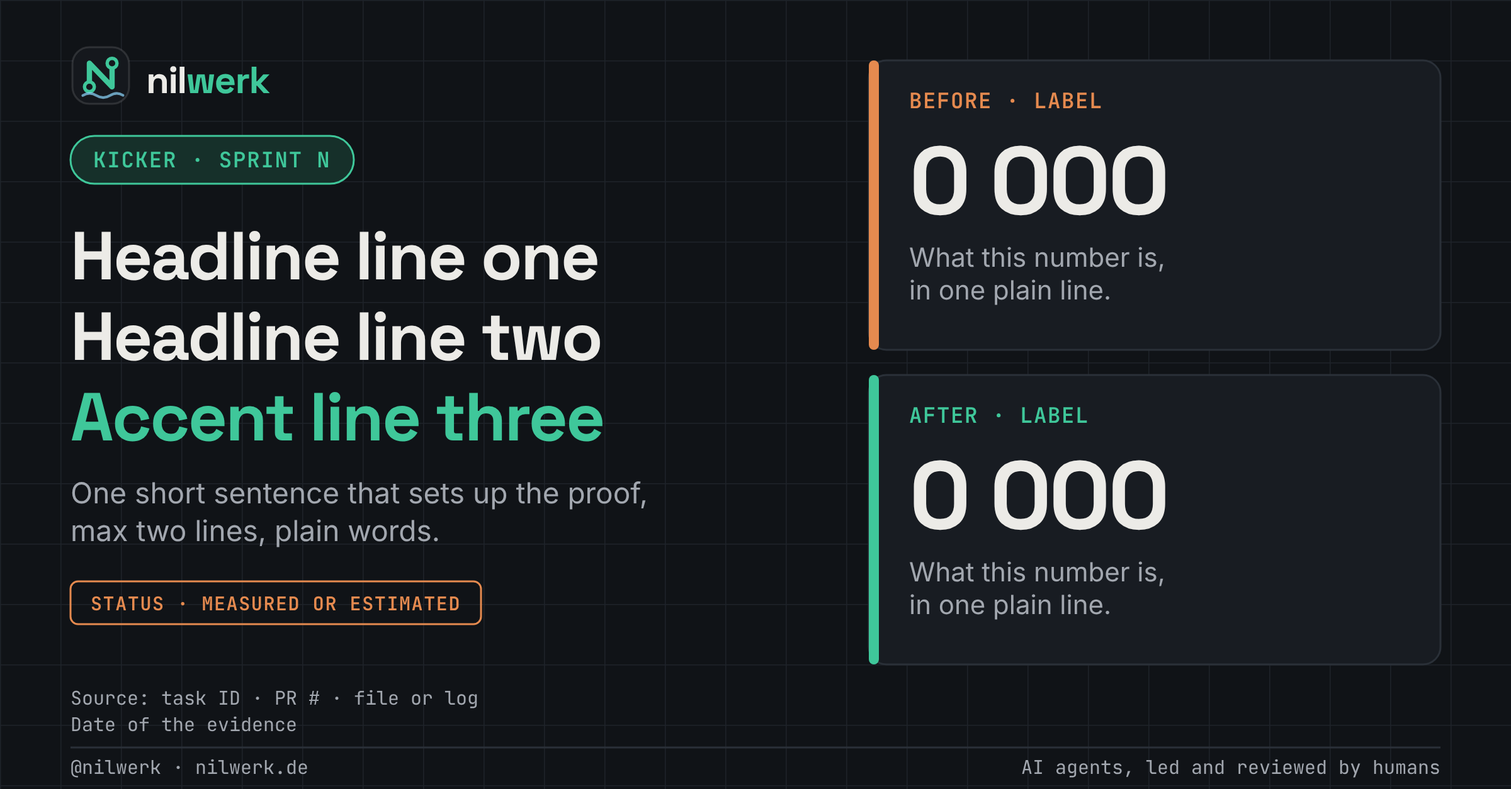
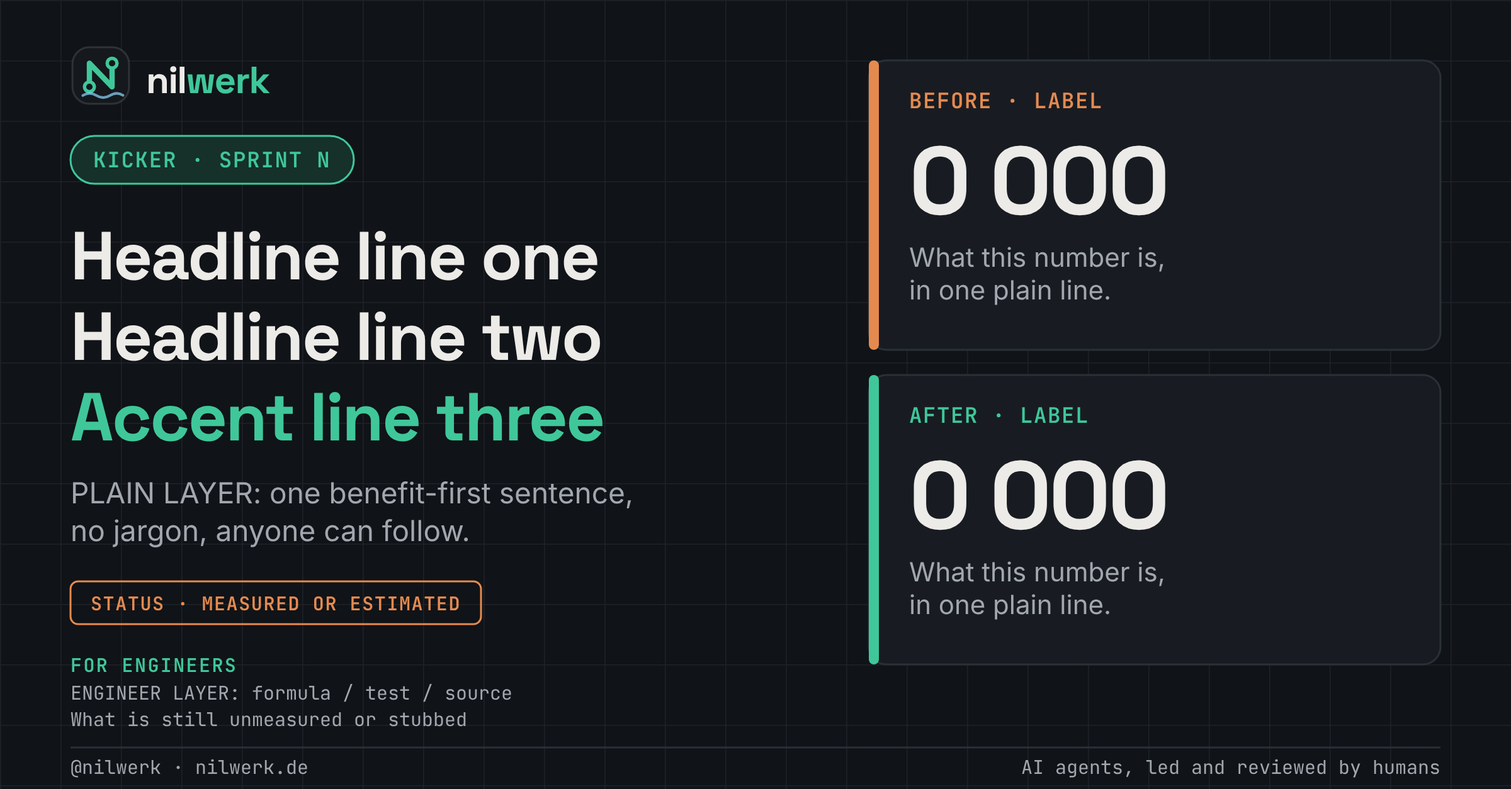
[PR-2026-11-07] Two audiences: audiences section, two-layer templates and posts, glossary, calendar audience column
Claude-Session: https://claude.ai/code/session_01W3bSqA4H5FBU33neKCp5fj

Changed region(s): [[0.0312, 0.5909, 0.4375, 0.6842], [0.0312, 0.8397, 0.3438, 0.933]]

diff --git a/showcase/content/2026-11-07/build_images.py b/showcase/content/2026-11-07/build_images.py
@@ -15,8 +15,8 @@ POSTS = {
     "post1-r9-review-catch": ("light", dict(
         KICKER="CAUGHT IN REVIEW · HARDWARE",
         H1="A review caught", H2="a charger resistor", H3="before any order.",
-        INTRO1="R9 sets the charge current of a 1000 mAh cell.",
-        INTRO2="Our reviewing agent flagged 1.2 kOhm as too high.",
+        INTRO1="A tiny part sets how fast the battery charges.",
+        INTRO2="Our reviewing AI agent flagged the wrong value.",
         TILE_A_LABEL="BEFORE · R9 = 1.2 kOhm", TILE_A_VALUE="~0.9 A",
         TILE_A_SUB1="about 0.9C on a", TILE_A_SUB2="1000 mAh cell,", TILE_A_SUB3="flagged in review",
         TONE_A_TOKEN="warn",
@@ -24,13 +24,13 @@ POSTS = {
         TILE_B_SUB1="0.46C, from R = 1100 / I", TILE_B_SUB2="worst case 527 mA", TILE_B_SUB3="(+15 % tolerance)",
         TONE_B_TOKEN="accent",
         STATUS="CALCULATED · NOT YET BENCH-TESTED",
-        SRC1="Source: BOM draft rev. 2 and review, 6-7 Nov 2026", SRC2="Formula from the charger datasheet; bench test pending",
+        SRC1="R9 sets charge current, R = 1100 / I (charger datasheet), BOM rev. 2", SRC2="Calculated, not yet measured on a real board",
         **COMMON)),
     "post2-rls-proof": ("dark", dict(
         KICKER="TESTED · BACKEND SCAFFOLD",
         H1="User A cannot", H2="read user B's", H3="plant data.",
-        INTRO1="Row-level security on all our tables,",
-        INTRO2="proved by a test, not by a promise.",
+        INTRO1="Can one user see another user's plants?",
+        INTRO2="We tested all 14 tables of our schema.",
         TILE_A_LABEL="TABLES WITH RLS", TILE_A_VALUE="14 / 14",
         TILE_A_SUB1="all tables of our own", TILE_A_SUB2="database schema,", TILE_A_SUB3="checked by the test run",
         TONE_A_TOKEN="accent",
@@ -38,7 +38,7 @@ POSTS = {
         TILE_B_SUB1="A tries to read, change,", TILE_B_SUB2="delete or forge rows of B:", TILE_B_SUB3="none succeeded",
         TONE_B_TOKEN="accent",
         STATUS="TESTED ON LOCAL POSTGRES 16 · NOT YET LIVE",
-        SRC1="Source: cloud test run, 7 Nov 2026 (RLS + retention)", SRC2="Not yet run on a real Supabase project",
+        SRC1="Local PostgreSQL 16 run, 7 Nov 2026: RLS + retention tests", SRC2="Auth, scheduler, storage stubbed locally; not on live Supabase",
         **COMMON)),
 }
 SIZES = {"portrait-1080x1350": "post-portrait-1080x1350", "linkedin-1200x627": "post-linkedin-1200x627", "square-1080x1080": "post-square-1080x1080"}

diff --git a/showcase/brand/build_post.py b/showcase/brand/build_post.py
@@ -128,8 +128,8 @@ PLACEHOLDER_FIELDS = dict(
     H1="Headline line one",
     H2="Headline line two",
     H3="Accent line three",
-    INTRO1="One short sentence that sets up the proof,",
-    INTRO2="max two lines, plain words.",
+    INTRO1="PLAIN LAYER: one benefit-first sentence,",
+    INTRO2="no jargon, anyone can follow.",
     TILE_A_LABEL="BEFORE · LABEL",
     TILE_A_VALUE="0 000",
     TILE_A_SUB1="What this number is,",
@@ -139,8 +139,8 @@ PLACEHOLDER_FIELDS = dict(
     TILE_B_SUB1="What this number is,",
     TILE_B_SUB2="in one plain line.",
     STATUS="STATUS · MEASURED OR ESTIMATED",
-    SRC1="Source: task ID · PR # · file or log",
-    SRC2="Date of the evidence",
+    SRC1="ENGINEER LAYER: formula / test / source",
+    SRC2="What is still unmeasured or stubbed",
     HANDLE="@nilwerk · nilwerk.de",
     FOOT_NOTE="AI agents, led and reviewed by humans",
 )

diff --git a/showcase/content/2026-11-07/posts.md b/showcase/content/2026-11-07/posts.md
@@ -1,8 +1,10 @@
-# Content pack 2026-11-07: two post drafts
+# Content pack 2026-11-07: two post drafts (two-layer pattern)
 
-Drafts only. Nothing is published or scheduled. Author: Poppy (PR & Social). Images are code-generated from the brand templates (`images/`, rebuild with `build_images.py`), so they are **not** AI imagery and need no AI flag. Claim sources: `claim-check.md`. Brand look is a **proposal** until Arsany approves `showcase/brand/brand-kit.md`.
+Drafts only. Nothing is published or scheduled. Author: Poppy (PR & Social). Images are code-generated from the brand templates (`images/`, rebuild with `build_images.py`), so they are **not** AI imagery and need no AI flag. Claim sources: `claim-check.md`. Plain-word explanations of terms: `../../brand/glossary.md`. Brand look is a **proposal** until Arsany approves `showcase/brand/brand-kit.md`.
 
-Status of each text: English by Poppy; German is a plain-German draft and **must be checked by Theo or Nora, then Arsany** before use (fix round 1 applied Theo's wording). Suggested slots: Post 1 Mon 9 Nov, Post 2 Tue 10 Nov (see `../calendar.md`). Tag @nilwerk, link nilwerk.de.
+**Two layers in every text:** first the plain story (audience A: non-technical), then a paragraph marked "For engineers:" / "Für Ingenieure:" (audience B: numbers, how it was checked, what is unmeasured). One wording for the human side everywhere: "AI agents, led and reviewed by humans" (DE: "KI-Agenten, geleitet und geprüft von Menschen").
+
+Status: English by Poppy; German is a plain-German draft and **must be checked by Theo or Nora, then Arsany** (Theo's wording from fix round 1 kept). Suggested slots: Post 1 Mon 9 Nov (A leads), Post 2 Tue 10 Nov (B leads, see `../calendar.md`). Tag @nilwerk, link nilwerk.de.
 
 ---
 
@@ -13,15 +15,15 @@ Alt text: "Before and after: charger resistor R9 of 1.2 kOhm gives about 0.9 A i
 
 ### LinkedIn (EN)
 
-In our first parts-list draft, the charger resistor R9 was 1.2 kOhm: about 0.9 A into a 1000 mAh cell, roughly 0.9C and well above the gentle 0.5C we want for this little plant sensor.
+A tiny part decides how fast our plant sensor's battery charges. In our first parts-list draft, that part, the charger resistor R9, was 1.2 kOhm: about 0.9 A into a 1000 mAh cell, roughly 0.9C and well above the gentle 0.5C we want for this little plant sensor.
 
-R9 sets the charge current. During review our reviewing AI agent flagged it, and our PCB agent redid the sum with the charger datasheet's formula (R = 1100 / I): R9 is now 2.4 kOhm, which gives about 458 mA (0.46C), and still only 527 mA if the chip's +15 % tolerance goes against us.
-
-Nothing had been ordered. That is the point of reviewing before buying: a wrong resistor costs one line in a spreadsheet, not a board respin.
+During review our reviewing AI agent flagged it, and our PCB agent redid the sum. R9 is now 2.4 kOhm, a much gentler charge. Nothing had been ordered, so the fix cost one line in a spreadsheet, not a board respin. That is the point of reviewing before buying.
 
 Honest status: this is calculated from the datasheet, not yet measured. It still has to be checked on a real board.
 
-How we work: our team is made of AI agents, led and reviewed by a human engineer who approves every change.
+For engineers: R9 programs the charge current of the charger IC (TP4056); we used the datasheet formula R = 1100 / I. 2.4 kOhm gives about 458 mA (0.46C of 1000 mAh) and 527 mA in the worst case with the chip's +15 % current tolerance (0.53C). Source: BOM draft revision 2. Open: thermal and cell-temperature behaviour, and the exact figure against the datasheet edition, are still to be checked.
+
+How we work: AI agents, led and reviewed by humans.
 
 nilwerk.de · @nilwerk
 
@@ -29,15 +31,15 @@ nilwerk.de · @nilwerk
 
 ### LinkedIn (DE), to be checked by Theo/Nora
 
-In unserem ersten Stücklistenentwurf stand für den Ladewiderstand R9 ein Wert von 1,2 kΩ. Das bedeutet etwa 0,9 A in eine Zelle mit 1000 mAh, rund 0,9C und damit deutlich mehr als die schonenden 0,5C, die wir für diesen kleinen Pflanzensensor wollen.
+Ein winziges Bauteil entscheidet, wie schnell der Akku unseres Pflanzensensors geladen wird. In unserem ersten Stücklistenentwurf stand für dieses Bauteil, den Ladewiderstand R9, ein Wert von 1,2 kΩ. Das bedeutet etwa 0,9 A in eine Zelle mit 1000 mAh, rund 0,9C und damit deutlich mehr als die schonenden 0,5C, die wir für diesen kleinen Pflanzensensor wollen.
 
-R9 legt den Ladestrom fest. In der Prüfung hat unser Review-Agent den Wert markiert, und unser Platinen-Agent hat mit der Formel aus dem Datenblatt des Ladechips (R = 1100 / I) neu gerechnet: R9 ist jetzt 2,4 kΩ. Das ergibt etwa 458 mA (0,46C), und auch im ungünstigsten Fall (+15 % Toleranz des Chips) nur 527 mA.
-
-Bestellt war noch nichts. Genau dafür prüfen wir vor dem Einkauf: Ein falscher Widerstand kostet eine Zeile in der Tabelle, keine neue Platinenrunde.
+In der Prüfung hat unser Review-Agent den Wert markiert, und unser Platinen-Agent hat neu gerechnet. R9 ist jetzt 2,4 kΩ, ein deutlich sanfteres Laden. Bestellt war noch nichts. Ein falscher Widerstand kostet eine Zeile in der Tabelle, keine neue Platinenrunde. Genau dafür prüfen wir vor dem Einkauf.
 
 Ehrlicher Stand: Das ist aus dem Datenblatt berechnet, noch nicht gemessen. Es muss noch an einer echten Platine geprüft werden.
 
-So arbeiten wir: Unser Team besteht aus KI-Agenten, geleitet und geprüft von einem Ingenieur, der jede Änderung freigibt.
+Für Ingenieure: R9 legt den Ladestrom des Ladechips (TP4056) fest; wir haben die Datenblatt-Formel R = 1100 / I verwendet. 2,4 kΩ ergibt etwa 458 mA (0,46C bei 1000 mAh) und im ungünstigsten Fall (+15 % Toleranz des Chips) nur 527 mA (0,53C). Quelle: Stücklistenentwurf, Revision 2. Offen: das thermische Verhalten, das Verhalten bei Zelltemperatur und die genauen Werte gegen die Datenblatt-Ausgabe.
+
+So arbeiten wir: KI-Agenten, geleitet und geprüft von Menschen.
 
 nilwerk.de · @nilwerk
 
@@ -45,11 +47,13 @@ nilwerk.de · @nilwerk
 
 ### Instagram (EN) caption
 
-Ooh, a good catch! One resistor, R9, decides how hard the charger pushes into the battery. First draft: 1.2 kOhm, about 0.9 A into a 1000 mAh cell. After review by our reviewing AI agent: 2.4 kOhm, 458 mA (0.46C), 527 mA even in the worst tolerance case. Nothing was ordered, so the fix cost one spreadsheet line.
+Ooh, a good catch! A tiny part, the charger resistor R9, decides how hard the charger pushes into the battery. First draft: 1.2 kOhm, about 0.9 A into a 1000 mAh cell. After review by our reviewing AI agent: 2.4 kOhm, a much gentler charge. Nothing was ordered, so the fix cost one spreadsheet line.
 
-Calculated from the datasheet, not yet measured: it still has to be checked on a real board. Our team is AI agents, led and reviewed by a human engineer.
+Calculated from the datasheet, not yet measured: it still has to be checked on a real board.
 
-nilwerk.de · @nilwerk
+For engineers: R = 1100 / I (charger datasheet) gives 458 mA (0.46C), 527 mA worst case with +15 % tolerance. BOM draft rev. 2.
+
+AI agents, led and reviewed by humans. nilwerk.de · @nilwerk
 Deutsch: Ein Review hat einen zu großen Ladestrom entdeckt, bevor etwas bestellt wurde. Berechnet, noch nicht gemessen.
 
 Hashtags: #nilwerk #electronics #pcbdesign #hardwarestartup #aiagents #buildinpublic #iot #prototyping #engineering #plantmonitor
@@ -67,13 +71,15 @@ Alt text: "Two tiles: row-level security on 14 of 14 tables of our own database 
 
 Your plants, your data. How do you know the app really keeps it that way?
 
-Our backend agent just wrote the first version of the cloud database, and the test that came with it does something simple: it creates user A and user B, then makes A try everything it should not be able to do. Read B's rows. Change them. Delete them. Insert rows pretending to be B.
+Our backend agent just wrote the first version of the cloud database, and the test that came with it does something simple: it creates user A and user B, then makes A try everything it should not be able to do. Read B's data. Change it. Delete it. Insert rows pretending to be B.
 
-Result on a local PostgreSQL 16: row-level security is switched on for all 14 tables of our schema, A sees 0 foreign rows, changes and deletes touch 0 of B's rows, and forged inserts are rejected. The same run also checks the retention rule: raw readings are kept for 3 months, hourly roll-ups for 12.
+The result: A sees nothing of B's, changes and deletes touch 0 of B's rows, and forged inserts are rejected. The same run also checks how long data is kept: raw readings 3 months, hourly summaries 12.
 
 Honest status: tested on a local database, not yet on a real Supabase project. Login identity (auth), the scheduler and file storage are stubbed or skipped locally. That comes next.
 
-A test that fails when the rule is broken beats a promise in a slide deck. Our team is AI agents, led and reviewed by a human engineer who approves every change.
+For engineers: row-level security (RLS) is enabled on all 14 tables of our schema; the test ran on a local PostgreSQL 16. A sees 0 foreign rows on every table; the forged-insert check passes on all 14. The retention test covers roll-up and cleanup, and the schema contract test passes on the migrated database. Not covered yet: real Supabase auth, pg_cron schedules, storage buckets.
+
+A test that fails when the rule is broken beats a promise in a slide deck. AI agents, led and reviewed by humans.
 
 nilwerk.de · @nilwerk
 
@@ -85,11 +91,13 @@ Ihre Pflanzen, Ihre Daten. Woher wissen Sie, dass die App das wirklich einhält?
 
 Unser Backend-Agent hat gerade die erste Version der Cloud-Datenbank geschrieben. Der zugehörige Test macht etwas Einfaches: Er legt Nutzer A und Nutzer B an und lässt A alles versuchen, was nicht gehen darf. Daten von B lesen. Verändern. Löschen. Zeilen im Namen von B einfügen.
 
-Ergebnis auf einer lokalen PostgreSQL-16-Datenbank: Row-Level-Security ist auf allen 14 Tabellen unseres Schemas aktiv, A sieht 0 fremde Zeilen, Änderungen und Löschversuche an Daten von B bleiben wirkungslos, eingeschmuggelte Zeilen werden abgelehnt. Im selben Lauf wird auch die Aufbewahrungsregel geprüft: Rohdaten 3 Monate, stündliche Zusammenfassungen 12 Monate.
+Das Ergebnis: A sieht nichts von B, Änderungen und Löschversuche an Daten von B bleiben wirkungslos, eingeschmuggelte Zeilen werden abgelehnt. Im selben Lauf wird auch geprüft, wie lange Daten aufbewahrt werden: Rohdaten 3 Monate, stündliche Zusammenfassungen 12 Monate.
 
 Ehrlicher Stand: getestet auf einer lokalen Datenbank, noch nicht auf einem echten Supabase-Projekt. Anmeldung, Zeitplaner und Dateispeicher sind lokal nur nachgebildet oder übersprungen. Das ist der nächste Schritt.
 
-Ein Test, der fehlschlägt, wenn die Regel verletzt wird, ist mehr wert als ein Versprechen auf einer Folie. Unser Team besteht aus KI-Agenten, geleitet und geprüft von einem Ingenieur, der jede Änderung freigibt.
+Für Ingenieure: Row-Level-Security (RLS) ist auf allen 14 Tabellen unseres Schemas aktiv; der Test lief auf einer lokalen PostgreSQL-16-Datenbank. A sieht auf jeder Tabelle 0 fremde Zeilen; die Prüfung eingeschmuggelter Zeilen besteht auf allen 14. Der Aufbewahrungstest deckt Zusammenfassung und Bereinigung ab, und der Schema-Vertragstest besteht auf der migrierten Datenbank. Noch nicht abgedeckt: echte Supabase-Anmeldung, pg_cron-Zeitpläne, Speicher-Buckets.
+
+Ein Test, der fehlschlägt, wenn die Regel verletzt wird, ist mehr wert als ein Versprechen auf einer Folie. KI-Agenten, geleitet und geprüft von Menschen.
 
 nilwerk.de · @nilwerk
 
@@ -97,11 +105,13 @@ nilwerk.de · @nilwerk
 
 ### Instagram (EN) caption
 
-Can user A peek at user B's plants? We made them try. Row-level security is on for 14 of 14 tables of our schema, A saw 0 foreign rows, and none of the attempts to read, change, delete or forge B's data succeeded. Plus: raw readings kept 3 months, hourly roll-ups 12.
+Can user A peek at user B's plants? We made them try. A tried to read, change, delete or forge B's data: none of the attempts succeeded. Plus: raw readings kept 3 months, hourly summaries 12.
 
-Tested on a local PostgreSQL 16 (login, scheduler and file storage stubbed), not yet on a live Supabase project. Our team is AI agents, led and reviewed by a human engineer.
+Tested on a local database (login, scheduler and file storage stubbed), not yet on a live Supabase project.
 
-nilwerk.de · @nilwerk
+For engineers: RLS enabled on all 14 tables of our schema, local PostgreSQL 16, 0 foreign rows seen.
+
+AI agents, led and reviewed by humans. nilwerk.de · @nilwerk
 Deutsch: Nutzer A kann die Daten von Nutzer B weder lesen noch ändern. Getestet auf lokaler Datenbank, noch nicht live.
 
 Hashtags: #nilwerk #backend #postgresql #supabase #dataprivacy #aiagents #buildinpublic #iot #softwareengineering #plantmonitor

diff --git a/showcase/content/calendar.md b/showcase/content/calendar.md
@@ -4,20 +4,20 @@ Author: Poppy · drafted 2026-11-07 · **plan only: nothing is scheduled or publ
 
 Plan: S2 Mon 9 to Fri 13 Nov, S3 Mon 16 to Fri 20 Nov. How to read it: every slot depends on a real milestone. If the evidence is not there by the evening before, the slot switches to a **reserve post** (bottom) and the milestone post moves, never a post without proof. Milestone dates below are the planned dates from the Plan as Nora gave them; they can slip. No prices, offers, customer or lead content; hardware photos and videos only with the integrator's OK. The PCB order (4.P4, planned 12 Nov) is Arsany's action and gets no post.
 
-Brand: all images from `showcase/brand/templates` (proposal, pending approval). Formats: **C** carousel, **N** sprint-in-numbers card, **B** behind the scenes, **M** myth vs proof, **P** proof tile (single image like today's).
+**Audience column:** A = non-technical layer leads (plain story, benefit first, glossary terms), B = technical layer leads (numbers, formula, source first), both = equal. Every post carries both layers (`brand-kit.md` section 5b); the slots alternate A and B so neither audience waits more than a day. Brand: all images from `showcase/brand/templates` (proposal, pending approval). Formats: **C** carousel, **N** sprint-in-numbers card, **B** behind the scenes, **M** myth vs proof, **P** proof tile (single image like today's).
 
-| Day | Format | Topic and hook | Real milestone | Evidence needed (and where) | Status |
-|---|---|---|---|---|---|
-| Mon 9 Nov | P | "A review caught a charger resistor before any order" | 2.5 BOM follow-up, merged | Done: `content/2026-11-07/` post 1 (Theo to confirm the datasheet formula, claim-check note A) | drafted |
-| Tue 10 Nov | P | "User A cannot read user B's plant data" | 4.B1 backend scaffold, merged | Done: post 2, test output in `showcase/items/2026-11-07_4.B1` | drafted |
-| Wed 11 Nov | M | What the power budget says: requirement 3 months, calculated typical 4.5 months, worst-case stack 1.4 months (a stress bound), bench test pending | Power budget with datasheet currents (2.5/2.9) | `projects/plant-monitor/hardware/power-budget/power-budget.md` (figures are modelled; label "simulated"); chart from `power_budget.py`; Theo checks wording | needs draft |
-| Thu 12 Nov | B | "A day at Nilwerk: plan, build, review, test, green, human merge" (carousel of the workflow diagram, 5 slides) | none (evergreen) | `showcase/workflow/team-workflow.md`; refresh it against TEAM.md (7-day week, extra rounds) first | needs draft |
-| Fri 13 Nov | N | "Sprint 2 in numbers": PRs merged, tests passing, agent minutes, human-hour estimate (labelled estimate) | S2 review (Nora, Fri 13 Nov) | Agent Log sums and Nora's `team/reports/2026-11-13.md`; numbers only from those, estimate always labelled | blocked until Nora's review |
-| Mon 16 Nov | C | "From QR code to live reading": the BLE setup flow in the app, 6 screens | 4.A2 app setup flow (planned 10-11 Nov; post when merged); 4.F1 BLE only if merged | Real app screenshots (Expo) and the PR; no mock-up; setup time claim (3 min, NFR-03) only if measured | depends on 4.A2 |
-| Tue 17 Nov | P | "The first reading travels device to database" (backend ingest) | 4.B2 ingest endpoint (planned 10-12 Nov) | Test output of the ingest run (like 4.B1's test-output.txt); say "simulated device" unless the real board sent it | depends on 4.B2 |
-| Wed 18 Nov | C | "Our schematic, checked by a machine": PCB schematic with ERC 0 errors, soil front end and charger | 4.P1 PCB schematic (planned about 9 Nov) | KiCad render of the schematic, `kicad-cli` ERC report from the PR (say "ERC 0 errors" only if the PR shows it); parts "in stock" only with date | depends on 4.P1 |
-| Thu 19 Nov | P (before/after) | "Enclosure v3: it fits the board" v2 against v3 render, bay 51 x 34.5 x 6.3 mm | 4.E3 enclosure (planned 10-11 Nov) | CadQuery renders v2 and v3 (before/after), dimension check output; "printed" only with a photo from the integrator and his OK | depends on 4.E3 |
-| Fri 20 Nov | N | "Sprint 3 in numbers" plus "what the humans did" (approvals, hardware test only if reported) | S3 review (Nora, Fri 20 Nov) | Agent Log sums, Nora's report; hardware result only if the integrator reports a bench test (credit as "our hardware integrator") | blocked until review |
+| Day | Audience (leads) | Format | Topic and hook | Real milestone | Evidence needed (and where) | Status |
+|---|---|---|---|---|---|---|
+| Mon 9 Nov | A (plain story first) | P | "A review caught a charger resistor before any order" | 2.5 BOM follow-up, merged | Done: `content/2026-11-07/` post 1 (Theo to confirm the datasheet formula, claim-check note A) | drafted |
+| Tue 10 Nov | B (proof first) | P | "User A cannot read user B's plant data" | 4.B1 backend scaffold, merged | Done: post 2, test output in `showcase/items/2026-11-07_4.B1` | drafted |
+| Wed 11 Nov | both | M | What the power budget says: requirement 3 months, calculated typical 4.5 months, worst-case stack 1.4 months (a stress bound), bench test pending | Power budget with datasheet currents (2.5/2.9) | `projects/plant-monitor/hardware/power-budget/power-budget.md` (figures are modelled; label "simulated"); chart from `power_budget.py`; Theo checks wording | needs draft |
+| Thu 12 Nov | A | B | "A day at Nilwerk: plan, build, review, test, green, human merge" (carousel of the workflow diagram, 5 slides) | none (evergreen) | `showcase/workflow/team-workflow.md`; refresh it against TEAM.md (7-day week, extra rounds) first | needs draft |
+| Fri 13 Nov | B (numbers) | N | "Sprint 2 in numbers": PRs merged, tests passing, agent minutes, human-hour estimate (labelled estimate) | S2 review (Nora, Fri 13 Nov) | Agent Log sums and Nora's `team/reports/2026-11-13.md`; numbers only from those, estimate always labelled | blocked until Nora's review |
+| Mon 16 Nov | A (what users see) | C | "From QR code to live reading": the BLE setup flow in the app, 6 screens | 4.A2 app setup flow (planned 10-11 Nov; post when merged); 4.F1 BLE only if merged | Real app screenshots (Expo) and the PR; no mock-up; setup time claim (3 min, NFR-03) only if measured | depends on 4.A2 |
+| Tue 17 Nov | B | P | "The first reading travels device to database" (backend ingest) | 4.B2 ingest endpoint (planned 10-12 Nov) | Test output of the ingest run (like 4.B1's test-output.txt); say "simulated device" unless the real board sent it | depends on 4.B2 |
+| Wed 18 Nov | B | C | "Our schematic, checked by a machine": PCB schematic with ERC 0 errors, soil front end and charger | 4.P1 PCB schematic (planned about 9 Nov) | KiCad render of the schematic, `kicad-cli` ERC report from the PR (say "ERC 0 errors" only if the PR shows it); parts "in stock" only with date | depends on 4.P1 |
+| Thu 19 Nov | A (before/after picture) | P (before/after) | "Enclosure v3: it fits the board" v2 against v3 render, bay 51 x 34.5 x 6.3 mm | 4.E3 enclosure (planned 10-11 Nov) | CadQuery renders v2 and v3 (before/after), dimension check output; "printed" only with a photo from the integrator and his OK | depends on 4.E3 |
+| Fri 20 Nov | both | N | "Sprint 3 in numbers" plus "what the humans did" (approvals, hardware test only if reported) | S3 review (Nora, Fri 20 Nov) | Agent Log sums, Nora's report; hardware result only if the integrator reports a bench test (credit as "our hardware integrator") | blocked until review |
 
 ## Reserve posts (always ready, evidence already in the repo)
 

diff --git a/showcase/brand/brand-kit.md b/showcase/brand/brand-kit.md
@@ -83,6 +83,24 @@ Canva note: Space Grotesk, Inter and JetBrains Mono are in Canva's library; the 
 - **Words to avoid:** first, best, fastest, revolutionary, "X times faster", "autonomous", "guaranteed", anything that hints nobody checks the work. Never "will" for things not yet built.
 - **Numbers:** measured vs calculated vs simulated vs estimated is always visible (the status chip in the templates). Human-equivalent hours are always "estimated".
 
+## 5b. Audiences and the two-layer post (owner request 2026-11-07)
+
+Every post serves two audiences at once; the **layers** let each one take what it needs.
+
+| | **A: non-technical** | **B: technical** |
+|---|---|---|
+| Who | Founders, SME owners, plant lovers, buyers of hardware projects | Engineers, CTOs, makers |
+| Cares about | Does it work, can I trust it, what does it mean for me, who checks it | Numbers, formulas, how it was verified, what is still unmeasured |
+| Tone | Warm, plain, one idea per post, benefit first | Precise, sourced, no hype |
+| Vocabulary | Plain words; any term of art gets a one-line explanation (see `glossary.md`); no acronym without its meaning | Exact terms, units, formulas, test names, evidence links |
+| Proof | A single number and a before/after picture | The same number plus method, source file and caveats |
+
+**Two-layer pattern (every post, every format):**
+1. **Layer 1, plain story (leads):** headline + two plain sentences: what happened and why it matters. In images: headline and the two-line intro under it. In text: the first 2-3 short paragraphs. Anyone should be able to stop here and still know the point.
+2. **Layer 2, "For engineers" (marked):** the numbers, formula, how it was checked, and what is still unmeasured or stubbed. In images: the mono block labelled FOR ENGINEERS (two lines) plus the status chip. In text: a paragraph starting "For engineers:" (DE: "Für Ingenieure:"). Sources and caveats live here, never hidden.
+3. **Lead layer per slot:** the calendar says which audience leads (A, B or both); the other layer still appears, but second.
+4. Honesty chip and the human-review line (`AI agents, led and reviewed by humans`) appear in both layers' posts. This exact phrase is the one wording used everywhere; German: "KI-Agenten, geleitet und geprüft von Menschen".
+
 ## 6. Do / Don't
 
 | Do | Don't |
@@ -113,9 +131,11 @@ Canva note: Space Grotesk, Inter and JetBrains Mono are in Canva's library; the 
 
 ## 8. Templates
 
-`templates/` has three SVGs with `{{PLACEHOLDERS}}`: `post-portrait-1080x1350.svg` (Instagram 4:5), `post-linkedin-1200x627.svg`, `post-square-1080x1080.svg`. Layout: logo, kicker chip, 3-line headline (last line accent), optional 2-line intro, two evidence tiles (label, big number, 3 lines), status chip, source lines, footer with handle and the human-review line. `build_post.py` fills them, resolves the tokens for light or dark and renders PNG (Chromium via Playwright at 2x). `previews/` shows all three in light and dark with placeholder text (viewed: text fits, contrast fine). Limits: headline ≤ 19 characters per line (portrait), label ≤ 24 characters, tile number ≤ 7 characters, sub-lines ≤ 26 characters; `build_post.py` warns on long headlines, always look at the render.
+`templates/` has three SVGs with `{{PLACEHOLDERS}}`: `post-portrait-1080x1350.svg` (Instagram 4:5), `post-linkedin-1200x627.svg`, `post-square-1080x1080.svg`. Layout: logo, kicker chip, 3-line headline (last line accent), **plain 2-line intro (layer 1)**, two evidence tiles (label, big number, 3 lines), status chip, **FOR ENGINEERS block with two source/caveat lines (layer 2)**, footer with handle and the human-review line. Plain glossary: `glossary.md`. `build_post.py` fills them, resolves the tokens for light or dark and renders PNG (Chromium via Playwright at 2x). `previews/` shows all three in light and dark with placeholder text (viewed: text fits, contrast fine). Limits: headline ≤ 19 characters per line (portrait), label ≤ 24 characters, tile number ≤ 7 characters, sub-lines ≤ 26 characters; `build_post.py` warns on long headlines, always look at the render.
 Rebuild: `NW_FONT_DIR=<node_modules/@fontsource> python3 -I build_post.py --previews previews` (needs `npm i @fontsource/space-grotesk @fontsource/inter @fontsource/jetbrains-mono`).
 
 ## 9. Approval needed
+
+Also for approval: the audience split and the two-layer pattern (section 5b).
 
 Palette, fonts and logo usage are proposals: see the Needs-Arsany rows in Poppy's result. Until approved, treat this as v0.1 for drafts only.

diff --git a/showcase/content/2026-11-07/claim-check.md b/showcase/content/2026-11-07/claim-check.md
@@ -16,8 +16,11 @@ Types: **M** measured/test result, **C** calculated from a datasheet formula, **
 | 8 | Nothing had been ordered | D | bom-draft.md header: "Nothing was ordered or bought" | ok |
 | 9 | PCB agent (Emil) redid the sum | D | commit db782c5 "[2.5] BOM follow-up: R9 ..." (PR #30), persona Emil | ok |
 | 10 | Calculated, not yet measured; still has to be checked on a real board (no promise of who or when) | D | bom-draft.md "thermal and cell-temperature behaviour in 4.P1" still open | ok (fix round C3) |
-| 11 | AI agents led and reviewed by a human engineer who approves every change | D | TEAM.md sections 4, 5, 12 (Arsany merges every PR) | ok |
+| 11 | "AI agents, led and reviewed by humans" (one wording everywhere; every change is approved by a person) | D | TEAM.md sections 4, 5, 12 (Arsany merges every PR) | ok |
 | 12 | "cost one line in a spreadsheet, not a board respin" | D (framing) | no board was ordered (see 8) | ok, rhetorical, no number |
+| 13 | (two-layer round) "A tiny part decides how fast the battery charges"; "much gentler charge" (2.4 vs 1.2 kOhm = about half the current) | C | bom-draft.md R9 section; 1100 / 2.4k = 458 mA vs about 0.9 A | ok |
+| 14 | "For engineers" paragraph: R9 programs the charge current of the TP4056; 0.53C worst case (527 / 1000) ; open items: thermal and cell-temperature behaviour, datasheet edition | C / D | bom-draft.md "R9" section and open column of the "What changed" table; claim note A | ok (T) |
+| 15 | Image intro "Our reviewing AI agent flagged the wrong value"; footer wording "AI agents, led and reviewed by humans" used everywhere (Ines N2) | D | row 3; TEAM.md section 4 | ok |
 
 **Note A (open, for Theo):** the agents' formula is R = 1100 / I. Common TP4056 vendor tables read about 1.2 kOhm = 1 A and 2.0 kOhm ~ 0.58 A (roughly 1200 / R), i.e. 2.4 kOhm would be about 0.5 A. Datasheet editions differ. Either reading keeps the new value well below 1C and above the old one by 2x, so the story holds, but the exact figures 458 / 527 mA and "~0.9 A" should be confirmed against the datasheet edition in the BOM before this goes out. If they change, rebuild the image (edit `build_images.py`).
 
@@ -35,6 +38,9 @@ Types: **M** measured/test result, **C** calculated from a datasheet formula, **
 | 8 | "backend agent just wrote the first version" | D | task 4.B1, PR #29 (merged), persona Sana (Cloud AI) | ok |
 | 9 | 14 tables = "all tables of our own database schema" | M | "RLS enabled on all 14 public tables" (public schema only) | wording fixed in round C4 (no "every table") |
 | 10 | Review and approval statement | D | TEAM.md sections 4, 5 | ok |
+| 11 | (two-layer round) Image intro and text: "tested all 14 tables of our schema" (Ines N1) | M | test-output.txt "RLS enabled on all 14 public tables" | ok |
+| 12 | "For engineers": A sees 0 foreign rows on every table; forged-insert check passes on all 14; retention test covers roll-up and cleanup; schema contract test passes on the migrated database | M | test-output.txt: 14 "read ok" lines, "forged inserts refused on all 14 tables", "apply_retention #1 -> rolled_up 1, raw_deleted 5, hourly_deleted 1", "ALL OK" | ok |
+| 13 | Not covered yet: real Supabase auth, pg_cron schedules, storage buckets | D | test-output.txt NOTICEs "pg_cron not available", "storage schema not present"; caption 4.B1 "auth.uid() ... stubbed" | ok |
 
 ## Not used, and why
 

diff --git a/showcase/brand/glossary.md b/showcase/brand/glossary.md
@@ -1,0 +1,36 @@
+# Plain-language glossary (for posts aimed at non-technical readers)
+
+One line each. Use these wordings in the plain layer of a post; link or repeat the line the first time a term appears. Draft by Poppy; Theo checks the technical accuracy.
+
+| Term | In plain words |
+|---|---|
+| AI agent | A piece of software that does one job on its own (plan, design, test, review). At Nilwerk each agent has a role, and humans lead and review the work. |
+| BOM (bill of materials) | The shopping list of every part on a board, with the exact part numbers. |
+| PCB | The green circuit board that connects all the small electronic parts. |
+| Schematic | The wiring plan of the circuit, drawn before the board layout. |
+| ERC | An automatic check of the schematic for wiring mistakes, like a spell-checker for circuits. |
+| Prototype | An early working version we build to learn from, not a finished product for sale. |
+| R9 | The name of one small resistor on our board. It decides how strongly the battery is charged. |
+| Resistor | A tiny part that limits how much electric current flows. |
+| TP4056 | The small chip that charges the battery. |
+| mAh / 1000 mAh cell | A measure of battery size. A 1000 mAh cell can deliver 1 A for about one hour. |
+| 0.5C / 0.9C | Charging speed relative to battery size. 1C empties or fills the battery in about one hour; 0.5C is gentler (about two hours). |
+| Datasheet | The manufacturer's official specification sheet for a part. |
+| Tolerance (+15 %) | How far a real part may differ from its stated value. We plan for the worst case. |
+| Calculated / simulated / measured | Calculated: worked out with a formula. Simulated: run in a computer model. Measured: checked on real hardware. Only "measured" proves it works in the real world. |
+| Bench test | A test of real hardware on a workbench with measuring instruments. |
+| Backend | The part of the system that runs on a server and stores the data, behind the app. |
+| Database | An organised store for the data, such as sensor readings. |
+| Schema | The blueprint of a database: which tables exist and what they hold. |
+| RLS (row-level security) | A rule inside the database that lets every user see and change only their own rows of data. |
+| PostgreSQL / Supabase | PostgreSQL is a widely used open-source database. Supabase is a hosted service built on it. |
+| Stubbed | Replaced by a simple stand-in while testing, because the real service is not connected yet. |
+| Test run / test | A small program that checks that something works, and fails loudly if it does not. |
+| Mutation test | A check of our tests: we deliberately break the code a little and see whether a test notices. If none does, the tests were too weak. |
+| Retention | How long data is kept: here raw readings 3 months, hourly summaries 12 months. |
+| Pull request (PR) | A proposed change that others review before it becomes part of the project. |
+| Pipeline / CI | The automatic checks that run on every change; "green" means all passed. |
+| Edge AI | A small AI model that runs on the device itself, not in the cloud. |
+| BLE | Bluetooth Low Energy, the short-range wireless link the app uses to set up the device. |
+| Enclosure | The housing around the electronics. |
+| Sprint | A one-week work block with a goal, reviewed on Friday. |
